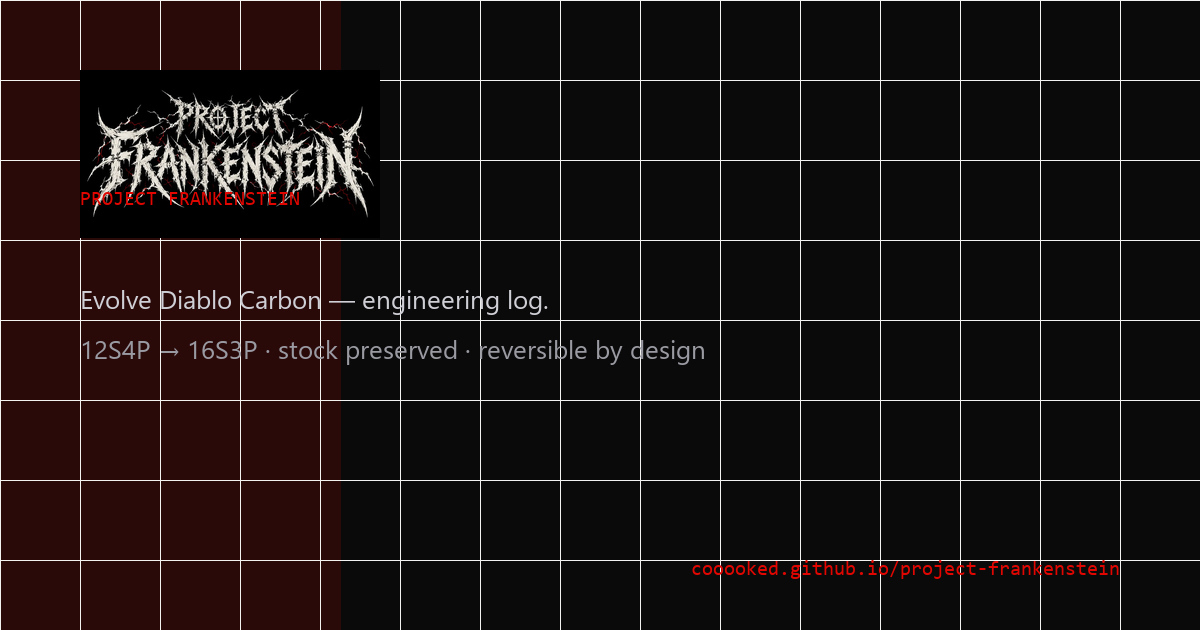
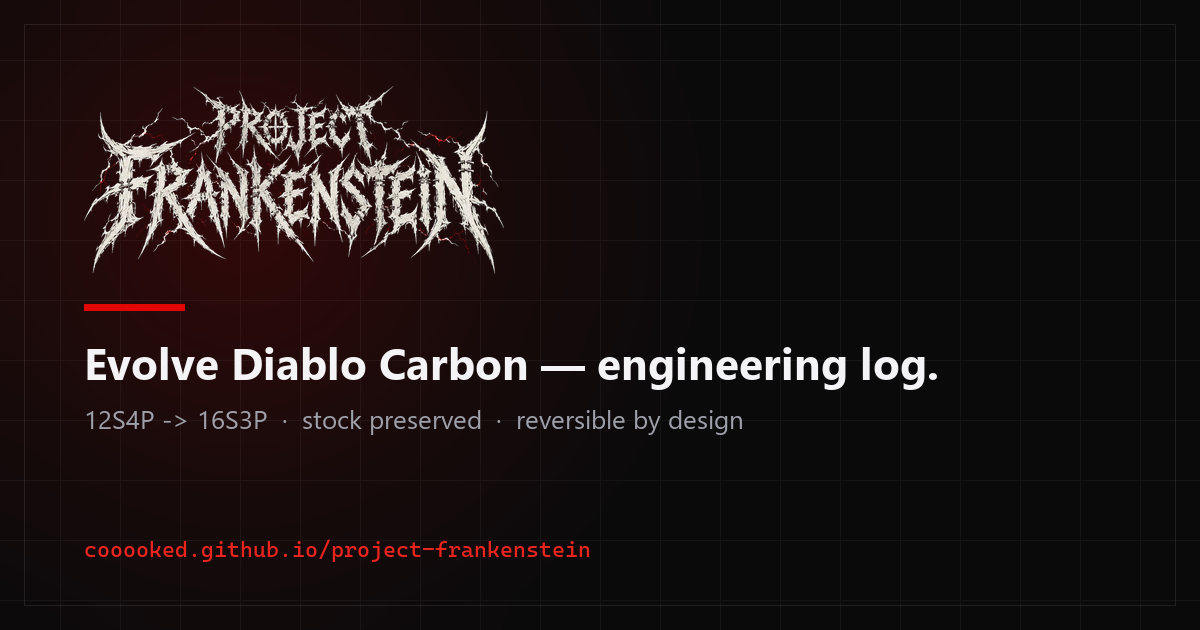
Fix photo aspect ratios, OG card image, mobile hero clipping and duplicate jargon text

diff --git a/js/main.js b/js/main.js
@@ -223,7 +223,7 @@
     lb.setAttribute('aria-label', 'Image viewer');
     lb.innerHTML = '<button class="lb-close" aria-label="Close">×</button>' +
       '<button class="lb-nav lb-prev" aria-label="Previous image">‹</button>' +
-      '<figure class="lb-figure"><img alt=""><figcaption></figcaption></figure>' +
+      '<figure class="lb-figure"><img alt="" hidden><figcaption></figcaption></figure>' +
       '<button class="lb-nav lb-next" aria-label="Next image">›</button>' +
       '<div class="lb-count mono" role="status" aria-live="polite"></div>';
     document.body.appendChild(lb);
@@ -233,6 +233,7 @@
     function show(i) {
       lbIdx = (i + lightboxImgs.length) % lightboxImgs.length;
       var src = lightboxImgs[lbIdx];
+      lbImg.hidden = false;
       lbImg.src = src.src; lbImg.alt = src.alt;
       lbCap.textContent = src.alt;
       lbCount.textContent = (lbIdx + 1) + ' / ' + lightboxImgs.length;
@@ -616,7 +617,7 @@
         if (!n.nodeValue || !n.nodeValue.trim()) return NodeFilter.FILTER_REJECT;
         var p = n.parentElement;
         while (p && p !== document.body) {
-          if (p === guide || SKIP[p.tagName]) return NodeFilter.FILTER_REJECT;
+          if (p === guide || SKIP[p.tagName] || (p.classList && p.classList.contains('ticker'))) return NodeFilter.FILTER_REJECT;
           p = p.parentElement;
         }
         return NodeFilter.FILTER_ACCEPT;
@@ -625,24 +626,29 @@
     var nodes = [];
     while (walker.nextNode()) nodes.push(walker.currentNode);
     nodes.forEach(function (node) {
-      if (made >= MAX) return;
-      var text = node.nodeValue;
-      TERMS.forEach(function (pair) {
-        if (made >= MAX) return;
-        pair[0].lastIndex = 0;
-        var m = pair[0].exec(text);
-        if (!m) return;
+      var curNode = node;
+      while (made < MAX && curNode && curNode.nodeValue) {
+        var text = curNode.nodeValue;
+        var best = null;
+        TERMS.forEach(function (pair) {
+          pair[0].lastIndex = 0;
+          var m = pair[0].exec(text);
+          if (m && (!best || m.index < best.m.index)) best = { m: m, tip: pair[1] };
+        });
+        if (!best) break;
+        var m = best.m;
         var span = document.createElement('span');
         span.className = 'jterm';
         span.tabIndex = 0;
-        span.dataset.tip = pair[1];
+        span.dataset.tip = best.tip;
         span.textContent = m[0];
         var rest = document.createTextNode(text.slice(m.index + m[0].length));
-        var after = node.nextSibling;
-        node.nodeValue = text.slice(0, m.index);
-        node.parentNode.insertBefore(span, after);
-        node.parentNode.insertBefore(rest, after);
+        var after = curNode.nextSibling;
+        curNode.nodeValue = text.slice(0, m.index);
+        curNode.parentNode.insertBefore(span, after);
+        curNode.parentNode.insertBefore(rest, after);
+        curNode = rest;
         made++;
-      });
+      }
     });
   })();

diff --git a/css/style.css b/css/style.css
@@ -18,7 +18,7 @@ body{
   font-size:16px;line-height:1.6;-webkit-font-smoothing:antialiased;
   overflow-x:hidden;
 }
-img{max-width:100%;display:block}
+img{max-width:100%;height:auto;display:block}
 a{color:inherit;text-decoration:none}
 code{font-family:var(--mono);font-size:.88em;background:#1c1c22;padding:.1em .35em;border-radius:4px;color:#ffb3ab}
 
@@ -68,10 +68,10 @@ code{font-family:var(--mono);font-size:.88em;background:#1c1c22;padding:.1em .35
 .hero__shade{position:absolute;inset:0;background:
   linear-gradient(180deg,rgba(10,10,11,.55) 0%,rgba(10,10,11,.25) 35%,rgba(10,10,11,.92) 88%,var(--bg) 100%),
   linear-gradient(90deg,rgba(10,10,11,.7) 0%,transparent 60%)}
-.hero__inner{position:relative;max-width:1100px}
+.hero__inner{position:relative;width:100%;max-width:1100px}
 .hero__kicker{font-family:var(--mono);font-size:12px;letter-spacing:.22em;color:var(--red);margin-bottom:22px}
 .hero__title{
-  font-size:clamp(56px,11vw,150px);font-weight:900;line-height:.92;letter-spacing:-.02em;
+  font-size:clamp(34px,9.8vw,150px);font-weight:900;line-height:.92;letter-spacing:-.02em;
   text-transform:uppercase;
 }
 .hero__title::after{content:"";display:block;width:120px;height:6px;background:var(--red);margin-top:26px}
@@ -154,7 +154,7 @@ code{font-family:var(--mono);font-size:.88em;background:#1c1c22;padding:.1em .35
 .part p{color:var(--dim);font-size:15px}
 .part__status{display:inline-block;margin-top:16px;font-family:var(--mono);font-size:10px;letter-spacing:.1em;color:#e8c96a;border:1px solid #4d3f1a;background:#2a2410;padding:4px 10px;border-radius:3px}
 .stage__media{padding:30px 34px;border-top:1px solid var(--line);background:#0e0e11;display:grid;grid-template-columns:280px 1fr;gap:26px;align-items:center}
-.stage__media img{width:100%;border-radius:4px;border:1px solid var(--line);background:#fff}
+.stage__media img{width:100%;border-radius:4px;border:1px solid var(--line);background:var(--panel)}
 .stage__caption{margin:0}
 
 /* ---------- reversible ---------- */
